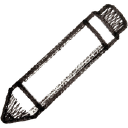
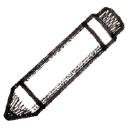
fix(war room): tool glyphs by critic — scraper fitted smaller, faint slots brighter, scroll contact shadow

Changed region(s): [[0.0, 0.0312, 1.0, 0.9688]]

diff --git a/assets/imagegen/install_map_art.py b/assets/imagegen/install_map_art.py
@@ -141,7 +141,9 @@ def install_war_tools() -> int:
     """The WAR ROOM's tool roll glyphs and the resolutions' rolled scroll
     (library W-61..W-68, U-61; prompts in war_tool_prompts.csv): post.py
     --tier icon cut-outs installed by assets/imagegen/war_tool_install.csv
-    (art_id, key, px, square) into assets/2D/war_room/tools/<key>.png, the
+    (art_id, key, px, square, fit — the share of the box the drawing fills,
+    so a tall glyph is not optically larger than a round one) into
+    assets/2D/war_room/tools/<key>.png, the
     ArtTable war_tool_art.tres there mapping each key. Sizes follow the use
     (asset-resolution-per-use): a slot glyph is 36 of a 44 design px slot x
     ~3 window scale -> 128 square; the rolled scroll fills a 115 x 72 design
@@ -154,6 +156,7 @@ def install_war_tools() -> int:
     done = 0
     for r in csv.DictReader((HERE / "war_tool_install.csv").open()):
         art_id, key, px, square = r["art_id"], r["key"], int(r["px"]), r["square"] == "1"
+        fit = float(r.get("fit") or 1.0)
         hits = sorted(src.glob("%s*.png" % art_id))
         if not hits:
             print("  (no cut-out for %s / %s — run post.py --tier icon first)" % (art_id, key))
@@ -163,7 +166,7 @@ def install_war_tools() -> int:
             print("  (%s is not RGBA — post.py --tier icon writes a cut-out)" % hits[-1].name)
             continue
         cw, chh, rgba = trim_alpha(w, h, bytearray(pxs))
-        scale = px / max(cw, chh)
+        scale = px * fit / max(cw, chh)
         tw, th = max(1, round(cw * scale)), max(1, round(chh * scale))
         small = resize_rgba(cw, chh, rgba, tw, th)
         if square:
